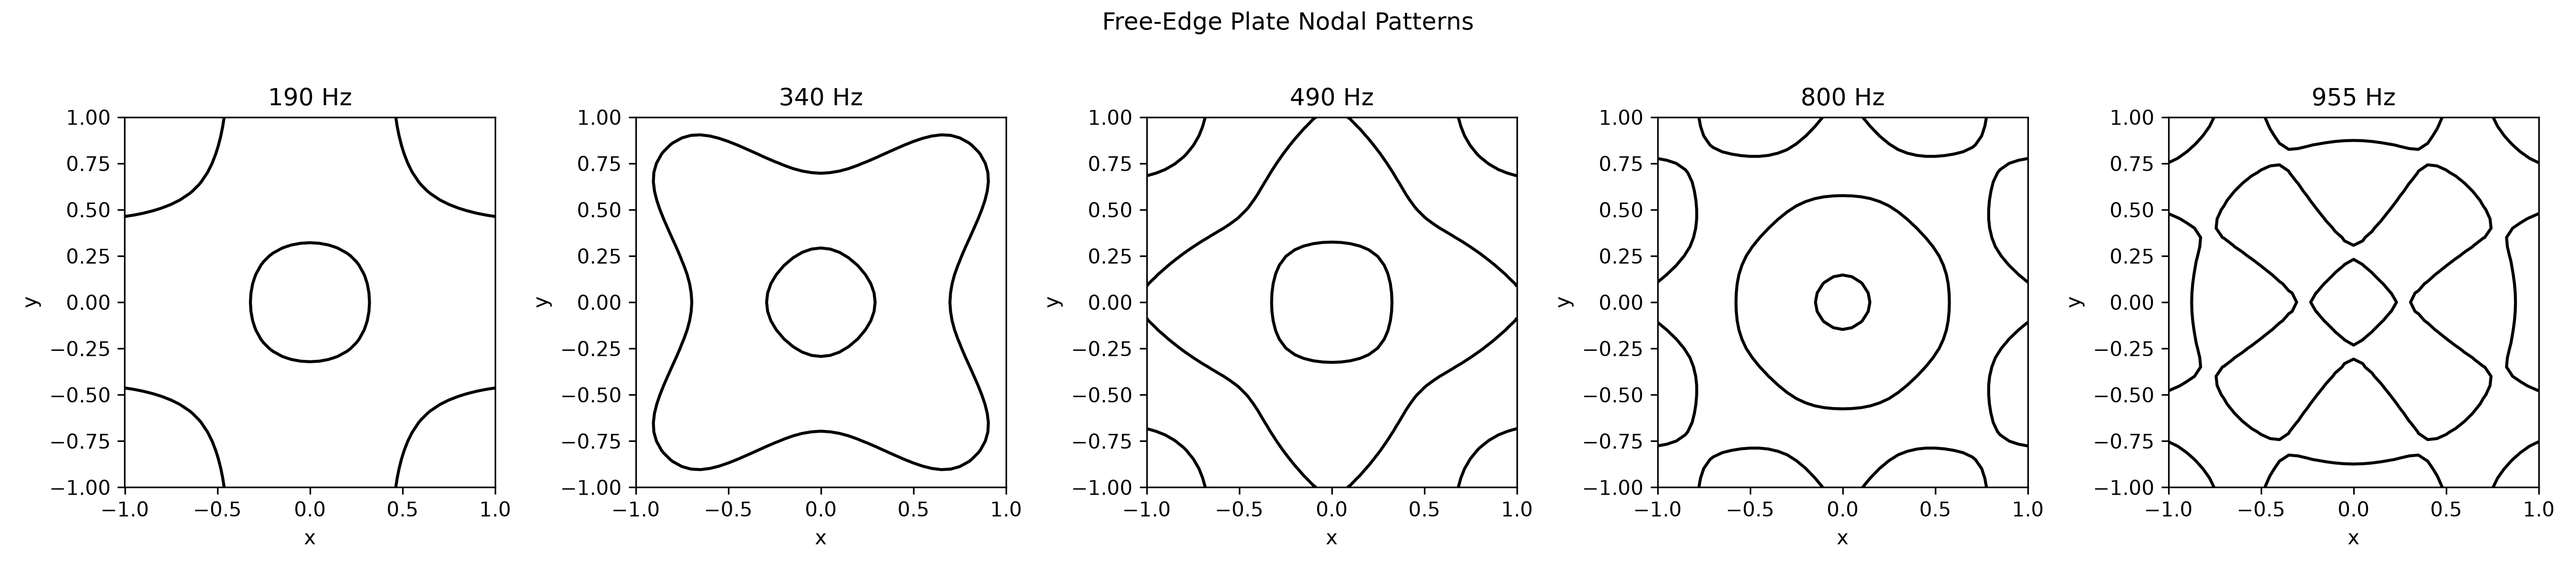
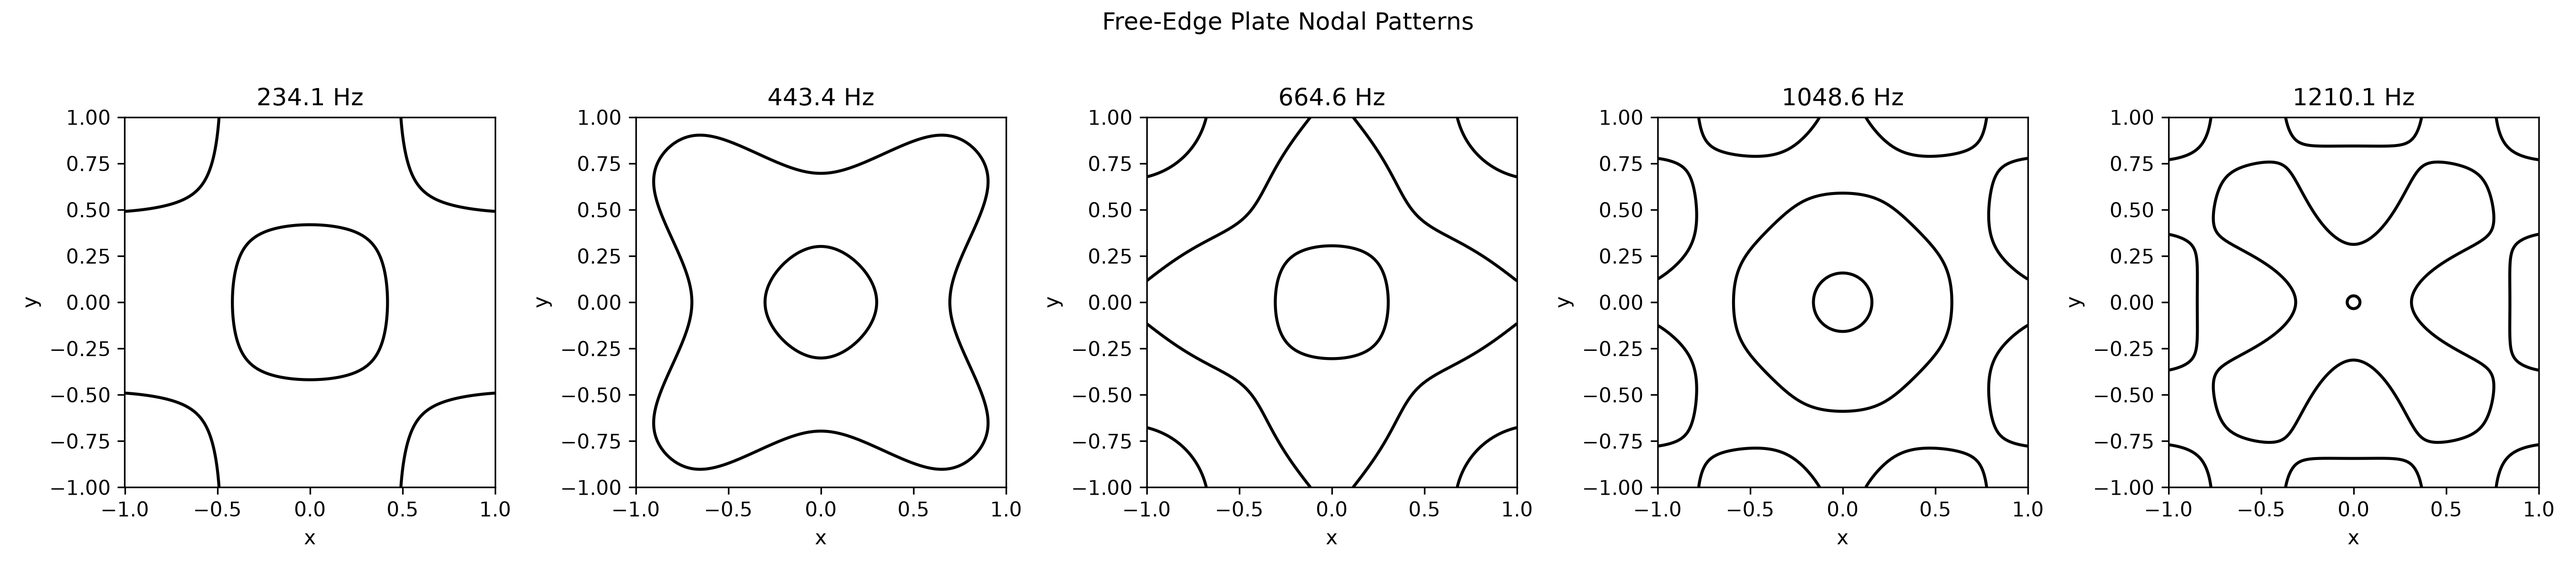
Frequency notes, switched to our setup

diff --git a/simulation/actual_case.py b/simulation/actual_case.py
@@ -7,31 +7,70 @@ from scipy.sparse import bmat, csr_matrix, eye
 from scipy.sparse.linalg import spsolve
 
 
-# Poisson ratio for aluminum
-mu = 0.33
+# -------------------------
+# Physical plate parameters
+# -------------------------
 
-# Frequencies we want to simulate
-frequencies_to_run = [
-    190,
-    340,
-    490,
-    800,
-    955,
+# Our square aluminum plate
+plate_side_length = 17 * 0.0254   # 17 inches, converted to meters
+thickness = 0.125 * 0.0254        # 1/8 inch, converted to meters
+
+# Aluminum material properties
+youngs_modulus = 69e9             # Pa
+density = 2700                    # kg/m^3
+mu = 0.33                         # Poisson ratio
+
+
+# Half side length of the plate
+a = plate_side_length / 2
+
+
+# Plate parameter D
+D = np.sqrt(
+    youngs_modulus * thickness**2
+    / (12 * density * (1 - mu**2))
+)
+
+
+# Dimensionless natural angular frequencies
+# found using free_edge_test.py
+dimensionless_omega_values = [
+    13.966,
+    26.455,
+    39.658,
+    62.570,
+    72.208,
 ]
 
-# Dimensionless forcing frequencies used in the paper
-omega_values = {
-    190: 13.0,
-    340: 26.0,
-    490: 40.0,
-    800: 61.0,
-    955: 72.0,
-}
 
+# Convert the dimensionless natural frequencies
+# into physical frequencies for our plate, in Hz
+frequencies_to_run = [
+    round(
+        D * omega / (2 * np.pi * a**2),
+        1,
+    )
+    for omega in dimensionless_omega_values
+]
+
+
+# Match each physical frequency to the
+# dimensionless frequency used by the simulation
+omega_values = dict(
+    zip(
+        frequencies_to_run,
+        dimensionless_omega_values,
+    )
+)
+
+
+# -------------------------
+# Numerical grid
+# -------------------------
 
 # Number of intervals along each side
-# N = 40 is a good quick starting point
-N = 40
+# N = 40 to start, D'Alessio used 200
+N = 200
 
 # Grid spacing
 h = 2 / N

diff --git a/notes/frequency_scaling.md b/notes/frequency_scaling.md
@@ -1,0 +1,58 @@
+# Physical Frequency Scaling
+Recommended to read the mathematical_setup and numerical_setup first
+
+In the D'Alessio paper, they used their experimental parameters to convert the dimensional equations and relevant values into non-dimensional ones. Then they used the natural frequencies associated with these, and that's why the code itself doesn't explicity have all of the relevant quantities mentioned. The quantities which are implicity used in the code are $E,\ \rho,\ l,\ a$. So we need to use the values which pertain to our own setup to determine what frequencies we should use.
+
+## Plate Parameters
+
+The plate parameter $D$ is determined from the material properties and plate thickness:
+
+$$
+D=\sqrt{\frac{El^2}{12\rho(1-\mu^2)}}
+$$
+
+The material properties for our plate are those associated with aluminum, $E$, $\rho$, and $\mu$. Whereas $l$ is measured directly from the thickness of our plate, and this part is different from what D'Alessio had.
+
+The mathematical model describes the plate over the bounds $-a\leq x,y\leq a$, where $a$ is half of the full side length $L$:
+
+$$
+a=\frac{L}{2}
+$$
+
+After converting to the dimensionless form, these bounds become $-1\leq x,y\leq1$. So our bounds end up being the same, but the difference in $a$ values is relevant in equation:
+
+$$
+f=\frac{D\omega^\ast}{2\pi a^2}
+$$
+
+The free edge matrix gives us eigenvalues $\lambda$, which correspond to the different natural modes of the plate. The dimensionless angular frequency is related to the eigenvalue by
+
+$$
+\lambda=h^4(\omega^\ast)^2,
+\qquad \text{and} \qquad
+\omega^\ast=\frac{\sqrt{\lambda}}{h^2}.
+$$
+
+## Converting to Physical Frequencies
+
+To get the frequency that we would actually use in the experiment, we convert the dimensionless angular frequency back into a physical frequency.
+
+The physical angular frequency is
+
+$$
+\omega=\frac{D}{a^2}\omega^\ast.
+$$
+
+Since the experiment uses frequency in Hz rather than angular frequency, we divide by $2\pi$:
+
+$$
+f=\frac{\omega_{\mathrm{physical}}}{2\pi}.
+$$
+
+Combining these gives
+
+$$
+f=\frac{D\omega^\ast}{2\pi a^2}.
+$$
+
+So once we have the natural frequencies for the matrix, we can use our plate values to find whatever frequencies we'd want to use in Hz. These frequencies are where we should get the best plate response, giving the most distinct nodal lines. But due to experimental errors, during the actual experiment we'll want to test frequencies around these values to find the strongest responses.
